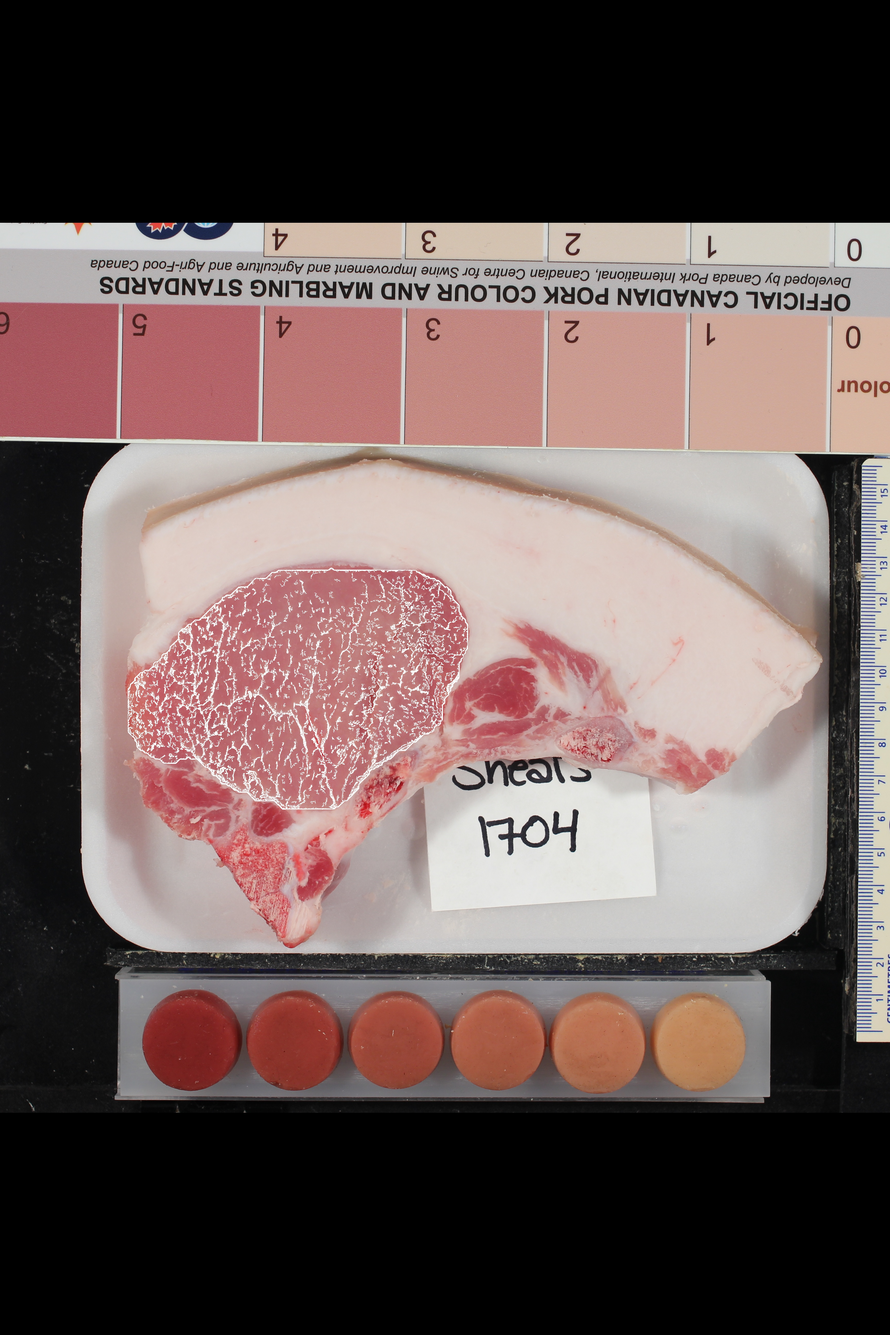
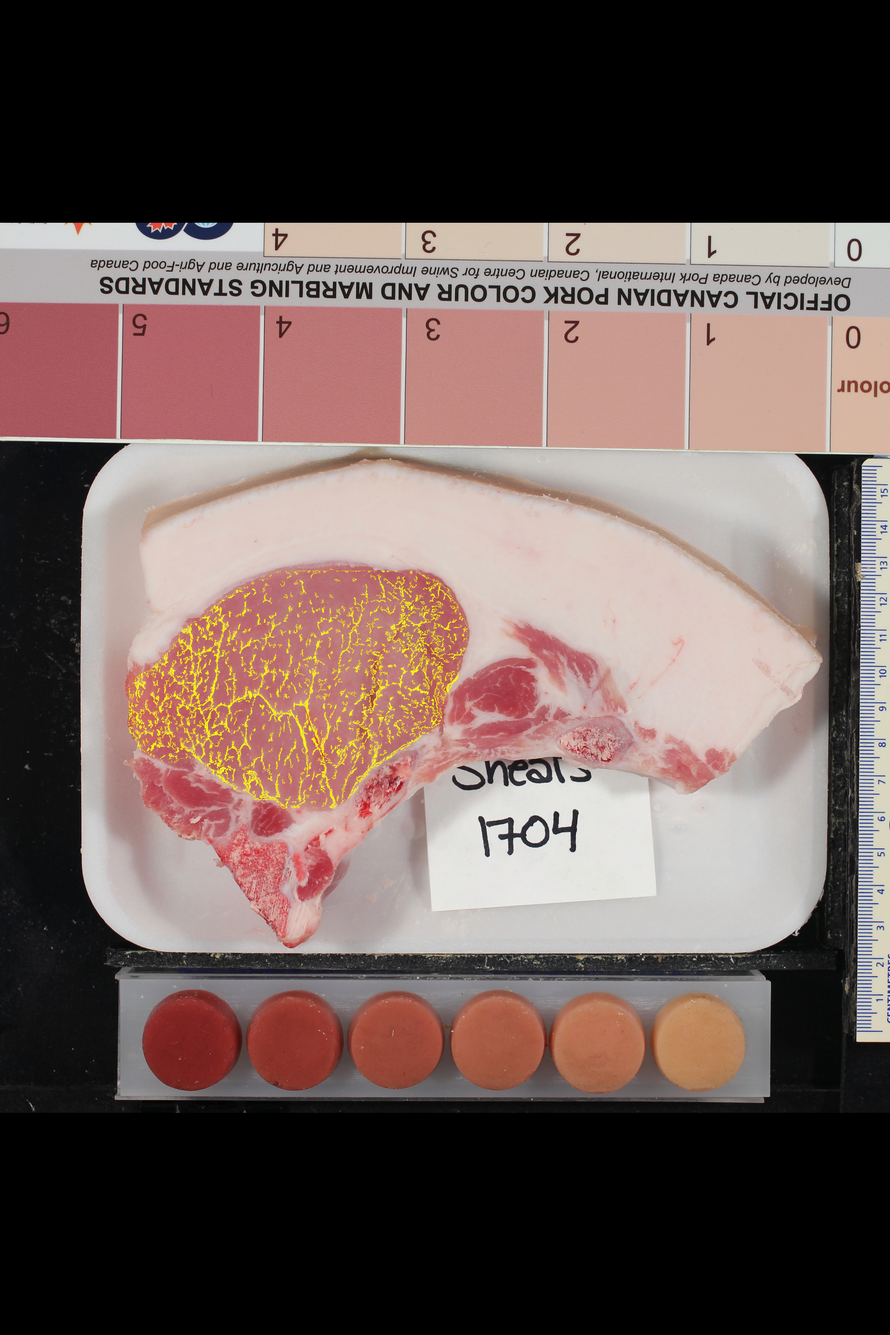
Update marbling.py

Changed region(s): [[0.125, 0.4062, 0.5312, 0.625]]

diff --git a/src/utils/marbling.py b/src/utils/marbling.py
@@ -4,7 +4,7 @@ import os
 from matplotlib import pyplot as plt
 
 # =============================================================================
-# Preprocessing Functions
+# Helper Functions
 # =============================================================================
 def extract_muscle_region(rotated_image, muscle_mask):
     """
@@ -80,13 +80,26 @@ def perform_preprocessing(image, kernel_size=11, lut=cv2.COLORMAP_JET):
     pseudo_color = apply_custom_lut(contrast_stretched, lut=lut)
     return contrast_stretched, pseudo_color
 
+def contour_detection(marbling_mask):
+    """ Removes the contour line from the marbling mask. """
+    contours, _ = cv2.findContours(marbling_mask, cv2.RETR_EXTERNAL, cv2.CHAIN_APPROX_SIMPLE)
+    cv2.drawContours(marbling_mask, contours, -1, color=0, thickness=5)  # Fill the contour with black
+    return marbling_mask
+
+def convert_fat_color(image):
+    """ Converts white pixels in the overlay to yellow for fat regions. """
+    lab_image = cv2.cvtColor(image, cv2.COLOR_BGR2LAB)
+    white_mask = (lab_image[:, :, 0] == 255) & (lab_image[:, :, 1] == 128) & (lab_image[:, :, 2] == 128)
+    lab_image[white_mask, 2] = lab_image[white_mask, 2] + 100
+    lab_image = np.clip(lab_image, 0, 255)
+    return cv2.cvtColor(lab_image.astype(np.uint8), cv2.COLOR_LAB2BGR)
+
 # =============================================================================
 # Contrast Enhancement Function
 # =============================================================================
 def contrast_enhancement(image, gamma=0.3):
     """
     Applies gamma correction to exaggerate brightness differences in the input image.
-    A gamma value less than 1 will boost the brightness dramatically.
     
     Parameters:
       image: Input 8-bit image (should be a single-channel image).
@@ -210,20 +223,22 @@ def process_marbling(rotated_image, muscle_mask, output_dir="output/marbling", b
     raw_marbling_mask = cv2.bitwise_and(thresh_blue, muscle_mask)
     
     # Refine the marbling mask
-    refined_marbling_mask, _ = particle_analysis(raw_marbling_mask, min_area=50)
+    refined_marbling_mask, _ = particle_analysis(raw_marbling_mask, min_area=60)
+    refined_marbling_mask = contour_detection(refined_marbling_mask)
     
     # Calculate marbling percentage relative to the muscle area
     marbling_percentage = calculate_marbling_percentage(refined_marbling_mask, muscle_mask)
     
     # Create an overlay for visualization
     overlay = cv2.addWeighted(rotated_image, 1.0, cv2.cvtColor(refined_marbling_mask, cv2.COLOR_GRAY2BGR), 1.0, 0)
+    overlay_yellow = convert_fat_color(overlay)
     
     # Save images in a subfolder
     base_output_dir = os.path.join(output_dir, base_filename)
     os.makedirs(base_output_dir, exist_ok=True)
     cv2.imwrite(os.path.join(base_output_dir, f"{base_filename}_muscle_region.jpg"), muscle_region)
     cv2.imwrite(os.path.join(base_output_dir, f"{base_filename}_marbling_mask.jpg"), refined_marbling_mask)
-    cv2.imwrite(os.path.join(base_output_dir, f"{base_filename}_overlay.jpg"), overlay)
+    cv2.imwrite(os.path.join(base_output_dir, f"{base_filename}_overlay.jpg"), overlay_yellow)
     
     print(f"Processed marbling for {base_filename}: Marbling Percentage = {marbling_percentage:.2f}%")
     return refined_marbling_mask, marbling_percentage
